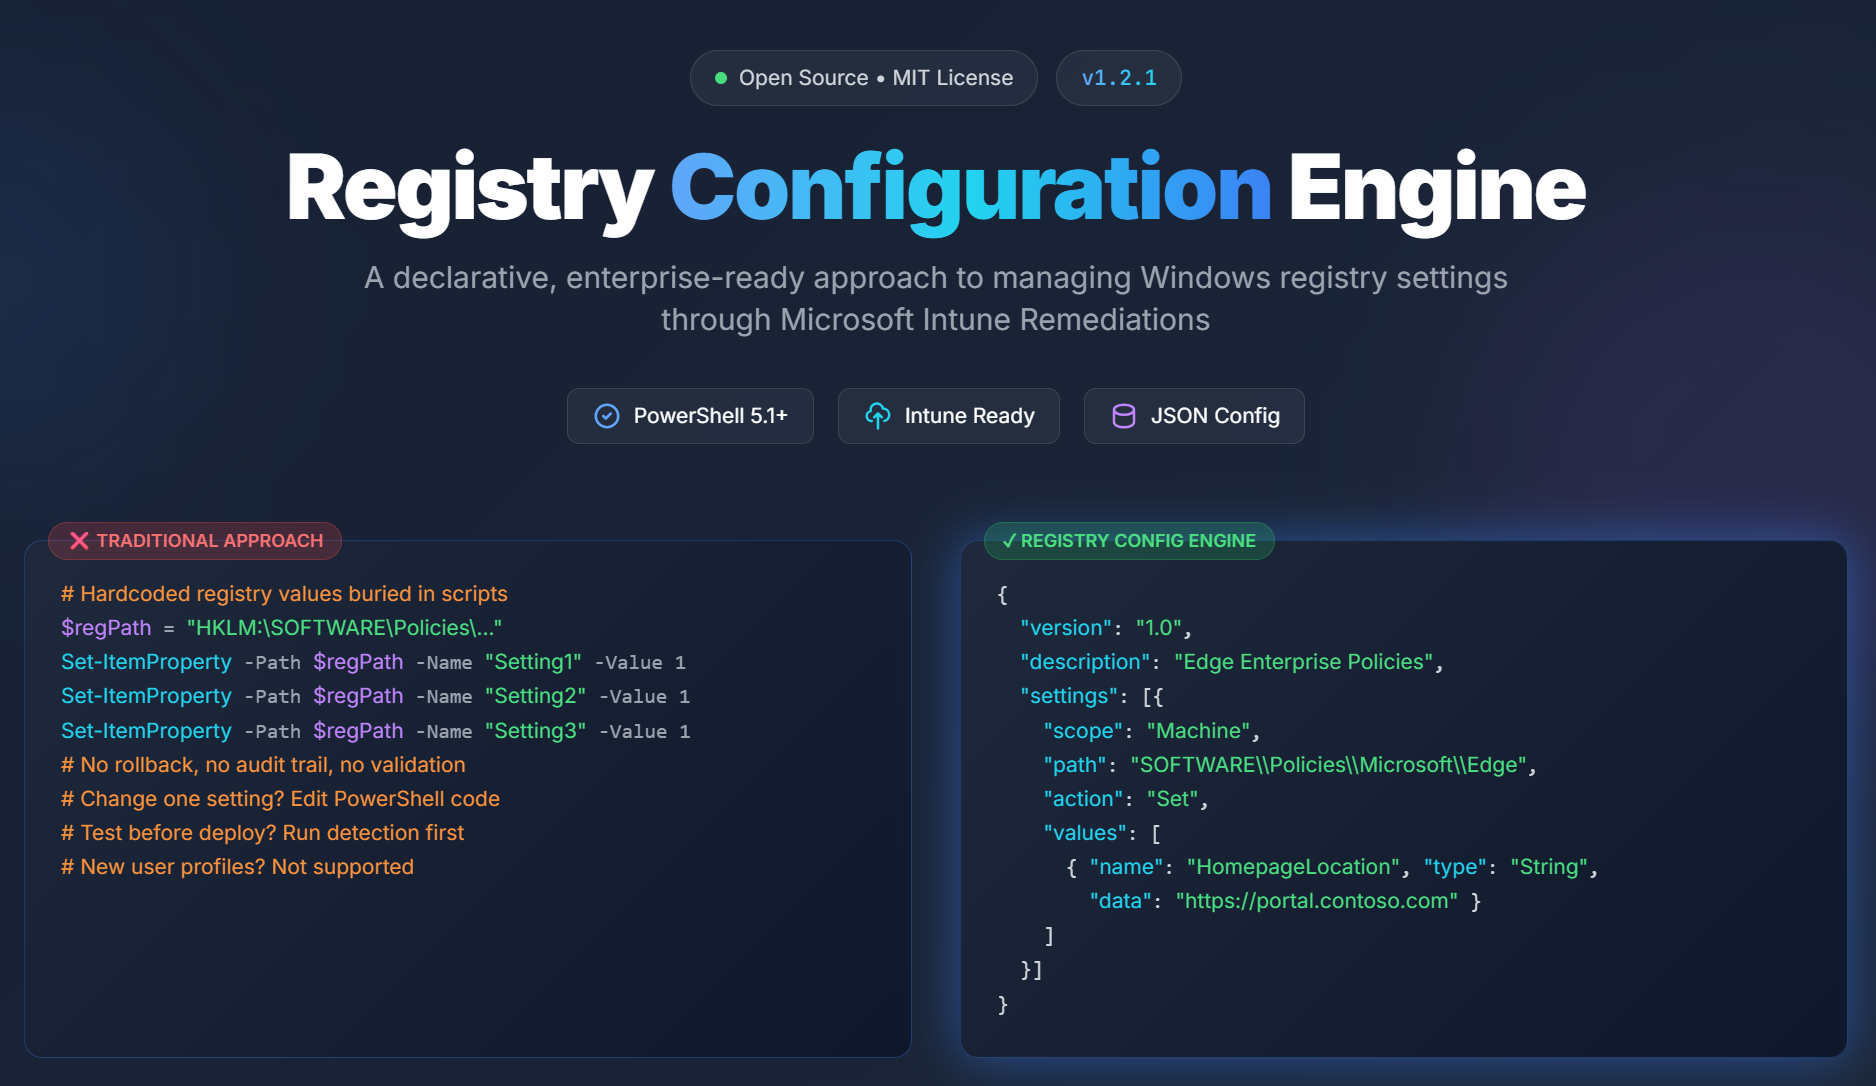
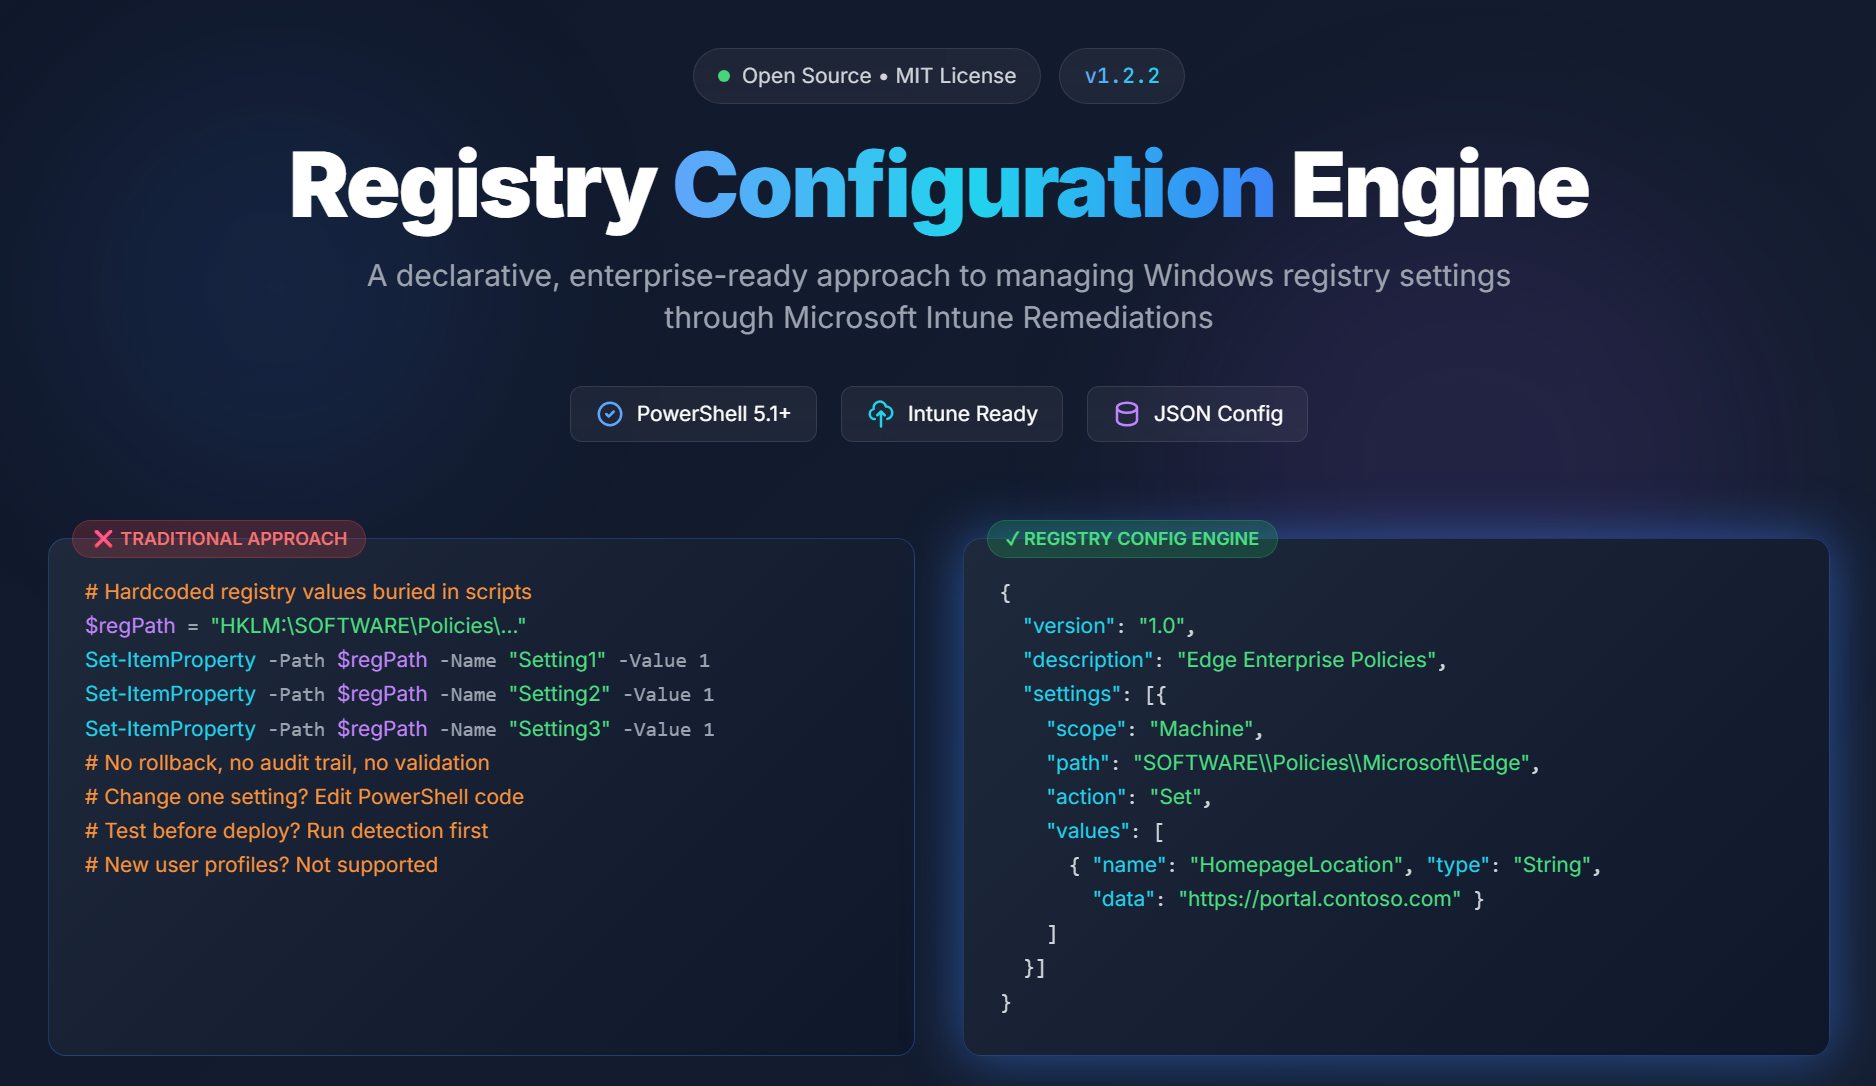
Update poster to v1.2.2 and refresh preview image
Version badge only - the poster carries no DWord/comparison content, and
the "Smart Comparison" card describes the operators generically, so the
v1.2.2 bugfix needs no copy changes.

Preview re-rendered headlessly at the same 1876x1086 and framing as before.

diff --git a/docs/poster.html b/docs/poster.html
@@ -96,7 +96,7 @@
                         <span class="text-sm text-gray-300">Open Source • MIT License</span>
                     </div>
                     <div class="inline-flex items-center gap-2 px-4 py-2 rounded-full glass">
-                        <span class="text-sm mono font-semibold bg-gradient-to-r from-blue-400 to-cyan-400 bg-clip-text text-transparent">v1.2.1</span>
+                        <span class="text-sm mono font-semibold bg-gradient-to-r from-blue-400 to-cyan-400 bg-clip-text text-transparent">v1.2.2</span>
                     </div>
                 </div>
                 
